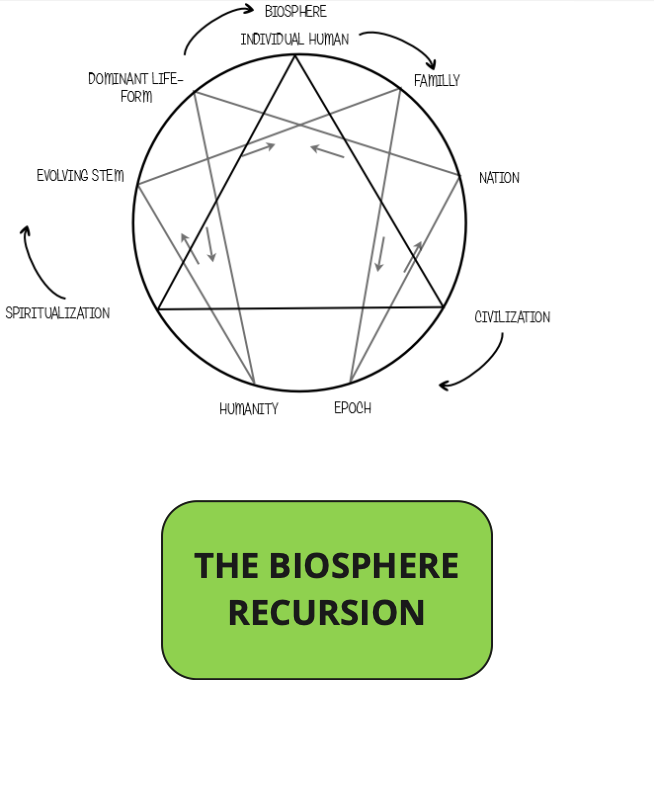
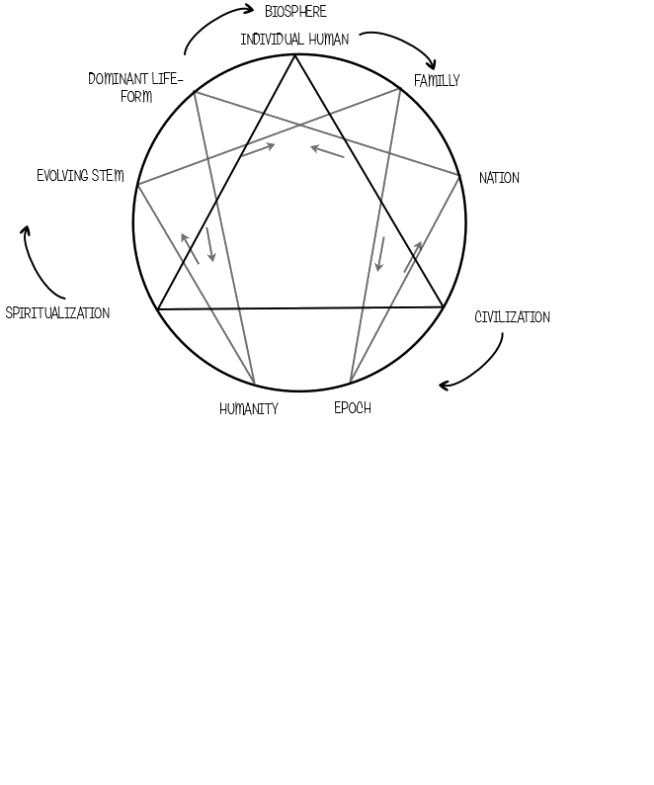
Convert biosphere recursion to SVG vector graphic and update Five Tasks
- Replace biosphere-recursion.png with mathematically precise SVG enneagram
  - Circle with 9 evenly spaced points (40° apart)
  - Equilateral triangle connecting points 9, 3, 6
  - Hexagram pattern: 1→4→2→8→5→7→1
  - Three quarter-arc arrows showing clockwise recursion
  - All labels positioned outside the circle
- Convert Five Tasks from image to styled text list
  - Purple background (#CE93D8) matching pillar box
  - Five tasks as numbered list with proper spacing
- Add page title headers to all meta pages via template
- Add blue border under chapter titles (.chapters-title)
- Adjust TOC card width to 100% and reduce padding to 0.5rem
- Style biosphere and five-tasks content boxes with colored backgrounds

🤖 Generated with [Claude Code](https://claude.com/claude-code)

Changed region(s): [[0.2446, 0.6115, 0.7645, 0.8866]]

diff --git a/static/css/style.css b/static/css/style.css
@@ -387,7 +387,9 @@ article a:hover {
     font-size: 3rem;
     color: white;
     text-align: center;
-    margin-bottom: 2rem;
+    margin-bottom: 3rem;
+    padding-bottom: 1.5rem;
+    border-bottom: 3px solid #667eea;
     font-weight: 400;
     letter-spacing: 0.02em;
 }
@@ -396,7 +398,7 @@ article a:hover {
     display: flex;
     flex-direction: column;
     gap: 0.5rem;
-    max-width: 800px;
+    max-width: 100%;
     margin: 0 auto;
 }
 
@@ -404,7 +406,7 @@ article a:hover {
     background: white;
     border-radius: 12px;
     box-shadow: 0 2px 12px rgba(0, 0, 0, 0.08);
-    padding: 1rem;
+    padding: 0.5rem 1rem;
     margin: 0.5rem 0;
     display: flex;
     align-items: flex-start;
@@ -1075,6 +1077,49 @@ footer {
   .connections {
     display: none;
   }
+}
+
+/* Five Tasks Styling */
+.five-tasks-content {
+  background: #CE93D8;
+  padding: 2rem 3rem;
+  border-radius: 20px;
+  border: 3px solid #000;
+  box-shadow: 0 4px 6px rgba(0,0,0,0.1);
+}
+
+.five-tasks-content ol {
+  list-style-position: inside;
+  font-size: 1.1rem;
+  line-height: 1.8;
+  color: #000;
+  font-weight: 500;
+}
+
+.five-tasks-content li {
+  margin-bottom: 1.5rem;
+}
+
+.five-tasks-content li:last-child {
+  margin-bottom: 0;
+}
+
+/* Biosphere Recursion Styling */
+.biosphere-content {
+  background: #81C784;
+  padding: 2rem;
+  border-radius: 20px;
+  border: 3px solid #000;
+  box-shadow: 0 4px 6px rgba(0,0,0,0.1);
+  display: flex;
+  justify-content: center;
+  align-items: center;
+}
+
+.biosphere-content img {
+  max-width: 100%;
+  height: auto;
+  display: block;
 }
 
 /* Print Styles */

diff --git a/templates/meta-page.html b/templates/meta-page.html
@@ -3,6 +3,7 @@
 {% block content %}
 <section class="transcluded-content">
     <div class="container">
+        <h1 class="main-title">{{ page.title }}</h1>
         <article class="book-section">
             <div class="content">
                 {{ page.content | safe }}

diff --git a/content/meta/biosphere-recursion.md b/content/meta/biosphere-recursion.md
@@ -3,4 +3,33 @@ title = "The Biosphere Recursion"
 template = "meta-page.html"
 +++
 
-![The Biosphere Recursion Diagram](/images/biosphere-recursion.png)
+<div class="biosphere-content">
+  <svg viewBox="0 0 600 600" xmlns="http://www.w3.org/2000/svg" style="max-width: 600px; width: 100%;">
+    <defs>
+      <marker id="arrowhead" markerWidth="10" markerHeight="10" refX="9" refY="3" orient="auto">
+        <polygon points="0 0, 10 3, 0 6" fill="#000"/>
+      </marker>
+    </defs>
+    <circle cx="300" cy="300" r="200" fill="none" stroke="#000" stroke-width="3"/>
+    <polygon points="300,100 473.205,400 126.795,400" fill="none" stroke="#000" stroke-width="3"/>
+    <line x1="428.558" y1="146.791" x2="368.404" y2="487.939" stroke="#000" stroke-width="2"/>
+    <line x1="368.404" y1="487.939" x2="496.962" y2="265.270" stroke="#000" stroke-width="2"/>
+    <line x1="496.962" y1="265.270" x2="171.442" y2="146.791" stroke="#000" stroke-width="2"/>
+    <line x1="171.442" y1="146.791" x2="231.596" y2="487.939" stroke="#000" stroke-width="2"/>
+    <line x1="231.596" y1="487.939" x2="103.038" y2="265.270" stroke="#000" stroke-width="2"/>
+    <line x1="103.038" y1="265.270" x2="428.558" y2="146.791" stroke="#000" stroke-width="2"/>
+    <path d="M 338.203,83.342 A 220,220 0 0 1 410,109.474" fill="none" stroke="#000" stroke-width="2" marker-end="url(#arrowhead)"/>
+    <path d="M 468.530,441.413 A 220,220 0 0 1 410,490.526" fill="none" stroke="#000" stroke-width="2" marker-end="url(#arrowhead)"/>
+    <path d="M 93.268,375.244 A 220,220 0 0 1 80,300" fill="none" stroke="#000" stroke-width="2" marker-end="url(#arrowhead)"/>
+    <text x="300" y="75" text-anchor="middle" font-family="Arial, sans-serif" font-size="14" font-weight="bold">BIOSPHERE</text>
+    <text x="300" y="60" text-anchor="middle" font-family="Arial, sans-serif" font-size="12">INDIVIDUAL HUMAN</text>
+    <text x="445" y="140" text-anchor="start" font-family="Arial, sans-serif" font-size="14">FAMILY</text>
+    <text x="515" y="270" text-anchor="start" font-family="Arial, sans-serif" font-size="14">NATION</text>
+    <text x="515" y="410" text-anchor="start" font-family="Arial, sans-serif" font-size="14">CIVILIZATION</text>
+    <text x="380" y="500" text-anchor="middle" font-family="Arial, sans-serif" font-size="14">EPOCH</text>
+    <text x="220" y="500" text-anchor="middle" font-family="Arial, sans-serif" font-size="14">EVOLVING STEM</text>
+    <text x="300" y="520" text-anchor="middle" font-family="Arial, sans-serif" font-size="14">HUMANITY</text>
+    <text x="85" y="410" text-anchor="end" font-family="Arial, sans-serif" font-size="14">SPIRITUALIZATION</text>
+    <text x="85" y="270" text-anchor="end" font-family="Arial, sans-serif" font-size="14">DOMINANT LIFE-FORM</text>
+  </svg>
+</div>

diff --git a/content/meta/five-tasks.md b/content/meta/five-tasks.md
@@ -3,4 +3,16 @@ title = "The Five Tasks of Stewardship"
 template = "meta-page.html"
 +++
 
-![The Five Tasks of Stewardship Diagram](/images/five-tasks.png)
+<div class="five-tasks-content">
+
+1. Taking care of our physical living body and wellbeing environment
+
+2. Continuous learning of the nature of things, the laws of world creation and maintenance
+
+3. Inner work for our awakening and self-realisation of our latent spiritual identity
+
+4. Helping others by passing on our learning with humility and compassion
+
+5. Contributing conscious energy transformation to the balance of earth and the solar system
+
+</div>
